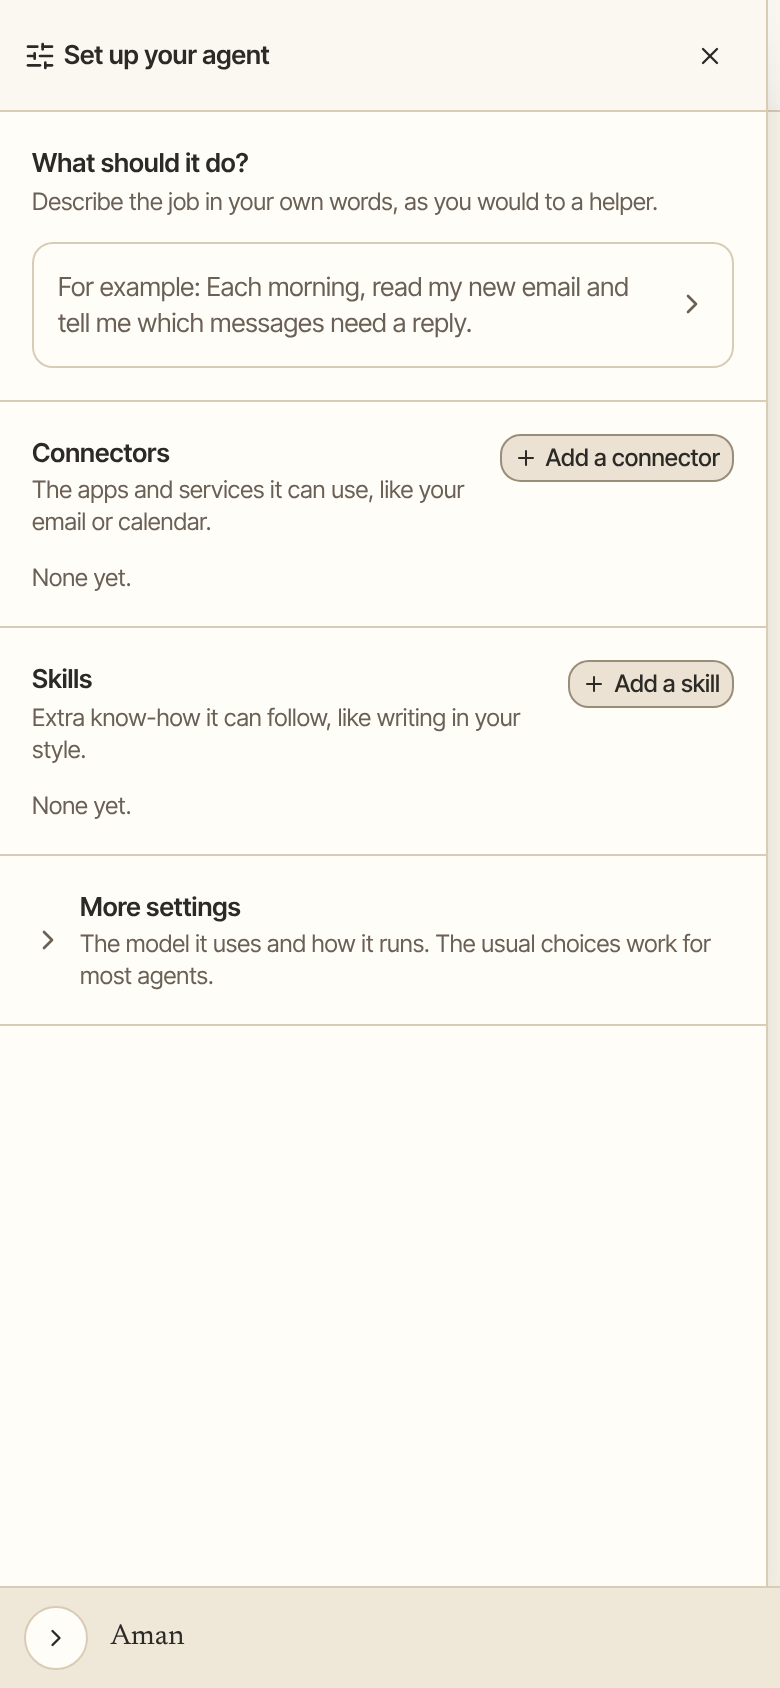
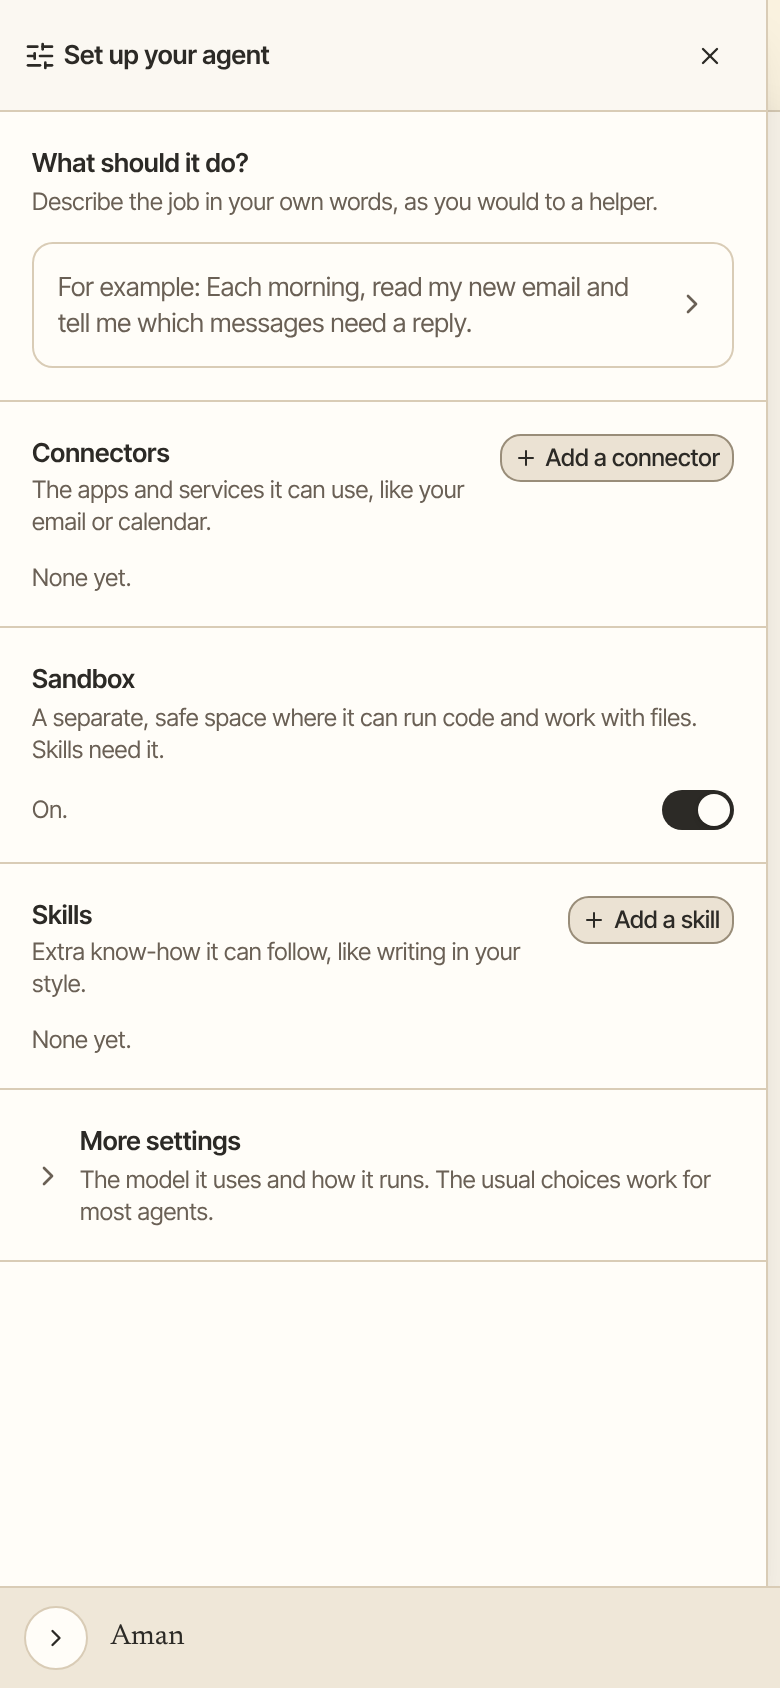
Add a Sandbox switch above Skills in agent setup
The setup panel now has a Sandbox section, just above Skills, with an
on/off switch. It stays on while the agent has skills, and when the
sandbox is not set up it says where to turn it on. The help guide,
docs and help pictures follow.

diff --git a/packages/trueforge/src/personas/amanGuide/knowledgePack.generated.ts b/packages/trueforge/src/personas/amanGuide/knowledgePack.generated.ts
@@ -18,7 +18,7 @@ export const AMAN_GUIDE_TOPICS: readonly AmanGuideTopic[] = [
     id: 'agents',
     title: 'Agents',
     covers: ['route:agent', 'route:agentImport'],
-    body: 'An agent is a saved setup for one job: a model, instructions, and the connectors and skills it may use. Build it once, then try it whenever you like or have it run on a schedule, such as a weekly summary every Monday.\n\nHow to get there: Click **More** in the left bar, then **Build agent**.\n\n=== "Computer"\n\n    ![The Set up your agent panel beside a new chat, asking what it should do, with Add a connector and Add a skill](../../../../docs/screenshots/app/agents-build-desktop.png)\n\n=== "Phone"\n\n    ![The Set up your agent panel on a phone, asking what it should do, with Add a connector and Add a skill](../../../../docs/screenshots/app/agents-build-phone.png)\n\n!!! note "Agent or persona?"\n\n    An agent does a job you set up ahead of time, and it is what runs your [schedules](schedules.md). A [persona](personas.md) is a helper that chats with you in your everyday chats. If you want someone to talk to, make a persona instead.\n\n## Build an agent\n\n1. Click **More** in the left bar, then **Build agent**. A new chat opens with the **Set up your agent** panel beside it.\n2. Under **What should it do?**, click **Edit Instructions** and write the job in your own words, such as "Every week, sum up my unpaid bills in a short list."\n3. To let it use your apps, click **Add a connector**. To give it extra know-how, click **Add a skill**.\n4. The model and run settings sit under **More settings**. The usual choices work for most agents. To pick another model, open **More settings** and click **Edit Model**.\n5. Try it out in the chat until it does what you want.\n6. Click **Save Agent**.\n7. Type a **Name** and say **What it\'s for**. You need both. Spaces and capitals are fine.\n8. Click **Save agent**.\n\n## Use an agent\n\n1. Click **More** in the left bar, then **Agents**.\n2. Click **Try** on your agent\'s row. A chat opens with that agent.\n\nTo run it on a schedule, point at its row and click **Schedule**. See [Schedules](schedules.md).\n\nWhen you make a schedule by asking in a chat, Aman saves an agent for it, named after the schedule. It shows up here, and you can change its tools, instructions or model. Deleting the schedule leaves the agent in place.\n\n## Change, copy or delete an agent\n\nOpen **Agents**, then click the menu at the end of the agent\'s row:\n\n- **Edit** opens the agent so you can change it. Click **Update Agent** to save.\n- **Clone** makes a copy you can change without touching the original.\n- **Manage Schedules** shows the schedules that use it.\n- **Delete** removes it. Aman asks first.\n\n## Good to know\n\n- An agent follows the same approval rules as Aman. Sending, deleting and installing still wait for your OK.\n- For every option an agent has, see [Create an agent](../../../../docs/create-agent/overview.mdx).\n\n## Related\n\n- [Personas](personas.md)\n- [Schedules](schedules.md)\n- [Skills](skills.md)',
+    body: 'An agent is a saved setup for one job: a model, instructions, and the connectors and skills it may use. Build it once, then try it whenever you like or have it run on a schedule, such as a weekly summary every Monday.\n\nHow to get there: Click **More** in the left bar, then **Build agent**.\n\n=== "Computer"\n\n    ![The Set up your agent panel beside a new chat, asking what it should do, with Add a connector and Add a skill](../../../../docs/screenshots/app/agents-build-desktop.png)\n\n=== "Phone"\n\n    ![The Set up your agent panel on a phone, asking what it should do, with Add a connector and Add a skill](../../../../docs/screenshots/app/agents-build-phone.png)\n\n!!! note "Agent or persona?"\n\n    An agent does a job you set up ahead of time, and it is what runs your [schedules](schedules.md). A [persona](personas.md) is a helper that chats with you in your everyday chats. If you want someone to talk to, make a persona instead.\n\n## Build an agent\n\n1. Click **More** in the left bar, then **Build agent**. A new chat opens with the **Set up your agent** panel beside it.\n2. Under **What should it do?**, click **Edit Instructions** and write the job in your own words, such as "Every week, sum up my unpaid bills in a short list."\n3. To let it use your apps, click **Add a connector**. To let it run code and work with files, turn on **Sandbox**. To give it extra know-how, click **Add a skill**. Skills need the sandbox, so it stays on while the agent has skills.\n4. The model and run settings sit under **More settings**. The usual choices work for most agents. To pick another model, open **More settings** and click **Edit Model**.\n5. Try it out in the chat until it does what you want.\n6. Click **Save Agent**.\n7. Type a **Name** and say **What it\'s for**. You need both. Spaces and capitals are fine.\n8. Click **Save agent**.\n\n## Use an agent\n\n1. Click **More** in the left bar, then **Agents**.\n2. Click **Try** on your agent\'s row. A chat opens with that agent.\n\nTo run it on a schedule, point at its row and click **Schedule**. See [Schedules](schedules.md).\n\nWhen you make a schedule by asking in a chat, Aman saves an agent for it, named after the schedule. It shows up here, and you can change its tools, instructions or model. Deleting the schedule leaves the agent in place.\n\n## Change, copy or delete an agent\n\nOpen **Agents**, then click the menu at the end of the agent\'s row:\n\n- **Edit** opens the agent so you can change it. Click **Update Agent** to save.\n- **Clone** makes a copy you can change without touching the original.\n- **Manage Schedules** shows the schedules that use it.\n- **Delete** removes it. Aman asks first.\n\n## Good to know\n\n- An agent follows the same approval rules as Aman. Sending, deleting and installing still wait for your OK.\n- For every option an agent has, see [Create an agent](../../../../docs/create-agent/overview.mdx).\n\n## Related\n\n- [Personas](personas.md)\n- [Schedules](schedules.md)\n- [Skills](skills.md)',
   },
   {
     id: 'appearance',

diff --git a/packages/trueforge-ui/src/atoms/draft/AgentConfigPanel.tsx b/packages/trueforge-ui/src/atoms/draft/AgentConfigPanel.tsx
@@ -8,6 +8,7 @@ import { useSlot } from '../../theme/SlotsProvider.js';
 import { auiButtonClass } from '../lib/buttonClasses.js';
 import { cn } from '../lib/cn.js';
 import { ResponsiveDropdownMenu } from '../primitives/ResponsiveDropdownMenu.js';
+import { Switch } from '../primitives/Switch.js';
 import { Tooltip } from '../primitives/Tooltip.js';
 import type { AgentConfigEditor } from './AgentConfigEditors.js';
 import { initialUserMessagesFromSpec } from './agentConfigMessages.js';
@@ -33,6 +34,7 @@ export type AgentConfigPanelProps = {
   modelsError: string | null;
   skills?: AgentSkill[];
   skillsAvailable: boolean;
+  sandboxAvailable: boolean;
   instructions: string;
   onOpenEditor: (editor: AgentConfigEditor) => void;
   onChange?: (spec: AgentSpec) => void;
@@ -296,6 +298,7 @@ export function AgentConfigPanel({
   modelsError,
   skills: catalogSkills = [],
   skillsAvailable,
+  sandboxAvailable,
   instructions,
   onOpenEditor,
   onChange,
@@ -312,6 +315,7 @@ export function AgentConfigPanel({
   const [modelQuery, setModelQuery] = useState('');
   const mcp = editableMountsFromSpec(spec.mcpServers);
   const skillMounts = editableMountsFromSpec(spec.skills);
+  const sandboxEnabled = spec.config?.sandbox?.enabled ?? false;
   const modelParams = modelParamSummary(spec.model.params);
   const runtimeConfig = runtimeConfigSummary(spec.config);
   const instructionPreview = instructions.trim();
@@ -417,6 +421,31 @@ export function AgentConfigPanel({
           ) : (
             <p className="text-text-secondary text-xs">None yet.</p>
           )}
+        </Section>
+
+        <Section
+          title="Sandbox"
+          description="A separate, safe space where it can run code and work with files. Skills need it."
+        >
+          <div className="flex items-center justify-between gap-4">
+            <p className="text-text-secondary text-xs">
+              {!sandboxAvailable
+                ? 'The sandbox is not set up yet. Turn it on in Settings, under Sandbox.'
+                : skillMounts.length > 0
+                  ? 'Stays on while it has skills.'
+                  : sandboxEnabled
+                    ? 'On.'
+                    : 'Off.'}
+            </p>
+            <Switch
+              checked={sandboxEnabled}
+              aria-label="Sandbox"
+              disabled={disabled || !sandboxAvailable || skillMounts.length > 0 || onChange === undefined}
+              onCheckedChange={enabled =>
+                onChange?.({ ...spec, config: { ...spec.config, sandbox: { ...spec.config?.sandbox, enabled } } })
+              }
+            />
+          </div>
         </Section>
 
         <Section

diff --git a/packages/trueforge-ui/test/atoms/draft/AgentConfigPanel.test.tsx b/packages/trueforge-ui/test/atoms/draft/AgentConfigPanel.test.tsx
@@ -43,6 +43,7 @@ const catalogProps = {
   modelsLoading: false,
   modelsError: null,
   skills: [{ id: 'agent-skill:acme/team-a/echo:3', name: 'Echo', version: 3 }],
+  sandboxAvailable: true,
 };
 
 const spec: AgentSpec = {
@@ -139,6 +140,67 @@ describe('AgentConfigPanel', () => {
     expect(more).toHaveAttribute('aria-expanded', 'true');
     expect(screen.getByRole('button', { name: 'Edit Model' })).toBeInTheDocument();
     expect(screen.getByRole('button', { name: 'Edit Run settings' })).toBeInTheDocument();
+  });
+
+  it('turns the sandbox on from the switch above Skills', () => {
+    const onChange = vi.fn();
+    render(
+      <SlotsProvider>
+        <AgentConfigPanel
+          spec={{ ...spec, skills: [], config: undefined }}
+          model={model}
+          {...catalogProps}
+          skillsAvailable
+          instructions=""
+          onOpenEditor={vi.fn()}
+          onChange={onChange}
+        />
+      </SlotsProvider>,
+    );
+
+    const sandbox = screen.getByRole('switch', { name: 'Sandbox' });
+    const skills = screen.getByRole('heading', { name: 'Skills' });
+    expect(sandbox.compareDocumentPosition(skills) & Node.DOCUMENT_POSITION_FOLLOWING).toBeTruthy();
+    expect(sandbox).toHaveAttribute('aria-checked', 'false');
+    fireEvent.click(sandbox);
+    expect(onChange).toHaveBeenCalledWith(expect.objectContaining({ config: { sandbox: { enabled: true } } }));
+  });
+
+  it('keeps the sandbox on while skills are attached, and says how to set it up when it is missing', () => {
+    const { rerender } = render(
+      <SlotsProvider>
+        <AgentConfigPanel
+          spec={spec}
+          model={model}
+          {...catalogProps}
+          skillsAvailable
+          instructions=""
+          onOpenEditor={vi.fn()}
+          onChange={vi.fn()}
+        />
+      </SlotsProvider>,
+    );
+    expect(screen.getByRole('switch', { name: 'Sandbox' })).toBeDisabled();
+    expect(screen.getByText('Stays on while it has skills.')).toBeInTheDocument();
+
+    rerender(
+      <SlotsProvider>
+        <AgentConfigPanel
+          spec={{ ...spec, skills: [] }}
+          model={model}
+          {...catalogProps}
+          sandboxAvailable={false}
+          skillsAvailable={false}
+          instructions=""
+          onOpenEditor={vi.fn()}
+          onChange={vi.fn()}
+        />
+      </SlotsProvider>,
+    );
+    expect(screen.getByRole('switch', { name: 'Sandbox' })).toBeDisabled();
+    expect(
+      screen.getByText('The sandbox is not set up yet. Turn it on in Settings, under Sandbox.'),
+    ).toBeInTheDocument();
   });
 
   it('routes editor actions from the configuration summary', () => {

diff --git a/packages/trueforge-ui/src/containers/AgentConfigDrawerContainer.tsx b/packages/trueforge-ui/src/containers/AgentConfigDrawerContainer.tsx
@@ -148,6 +148,7 @@ export function AgentConfigDrawerContainer({ showClose = false }: { showClose?: 
         modelsError={catalog.error}
         skills={catalog.skills}
         skillsAvailable={capabilities?.skill.enabled === true}
+        sandboxAvailable={capabilities?.sandbox.enabled === true}
         instructions={instructionDraft}
         onOpenEditor={nextEditor => {
           if (canManageAgent) setEditor(nextEditor);

diff --git a/packages/trueforge/guide/topics/agents.md b/packages/trueforge/guide/topics/agents.md
@@ -24,7 +24,7 @@ How to get there: Click **More** in the left bar, then **Build agent**.
 
 1. Click **More** in the left bar, then **Build agent**. A new chat opens with the **Set up your agent** panel beside it.
 2. Under **What should it do?**, click **Edit Instructions** and write the job in your own words, such as "Every week, sum up my unpaid bills in a short list."
-3. To let it use your apps, click **Add a connector**. To give it extra know-how, click **Add a skill**.
+3. To let it use your apps, click **Add a connector**. To let it run code and work with files, turn on **Sandbox**. To give it extra know-how, click **Add a skill**. Skills need the sandbox, so it stays on while the agent has skills.
 4. The model and run settings sit under **More settings**. The usual choices work for most agents. To pick another model, open **More settings** and click **Edit Model**.
 5. Try it out in the chat until it does what you want.
 6. Click **Save Agent**.
